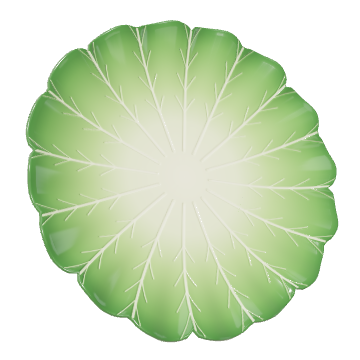
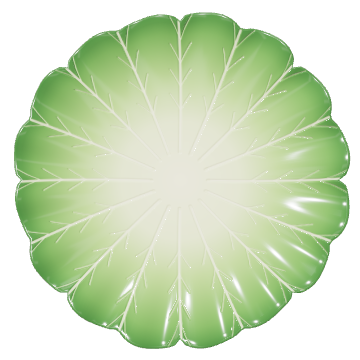
Awards: face-on plates, smooth landing, drag without paging, full-width page (#324)
* Awards round 2: plates rest face-on, no end-of-entrance snap, drag spins without paging, full-width page, card width, title lines [record-snapshots]

Eamon tested build 269:
- The entrance ended with the plate still leaning 6.5 degrees, then snapped flat and began an
  idle sway on its last frame. The lean now returns to nothing as it lands, and there is no sway:
  every plate rests fully face-on, live and in the stills (re-baked from the same engine).
- In the takeover a drag on the plate also turned the page: the swipe was on the whole screen.
  It now listens only under the plate.
- An opened award's page was only as wide as its title until its rows landed, so the screen's
  own white showed at both sides. It now fills the width at every phase.
- Its entry slips were inset by the page gutter; they now use the one card width.
- Award names wrapped with the face's own loose leading; they now use the exact 1.05 box.

Claude-Session: https://claude.ai/code/session_01UmVTMLpfHvzRrwD16tKZkG

* Snapshots: re-recorded pictures (26 files)

* Awards: spinning an opened award's plate never starts the back swipe

iOS 26 starts the back swipe from a sideways drag anywhere on a pushed page, and a spin is a
sideways drag (Eamon, build 269). A pan on the plate watches alongside the web view, cancels
nothing, and holds the navigation controller's back swipes until it fails.

Claude-Session: https://claude.ai/code/session_01UmVTMLpfHvzRrwD16tKZkG

---------

diff --git a/App/DesignSystem/Components/AtePlateView.swift b/App/DesignSystem/Components/AtePlateView.swift
@@ -105,6 +105,7 @@ struct AtePlateView: UIViewRepresentable {
         web.scrollView.bounces = false
         web.scrollView.contentInsetAdjustmentBehavior = .never
         web.accessibilityElementsHidden = true
+        web.addGestureRecognizer(context.coordinator.hold)
         stage.web = web
         if let url = AtePlateView.page {
             web.loadFileURL(url, allowingReadAccessTo: url)
@@ -123,15 +124,53 @@ struct AtePlateView: UIViewRepresentable {
     static let page = Bundle.main.url(forResource: "plate-world", withExtension: "html")
 
     @MainActor
-    final class Coordinator: NSObject, WKScriptMessageHandler {
+    final class Coordinator: NSObject, WKScriptMessageHandler, UIGestureRecognizerDelegate {
         let stage: AtePlateStage
+        /// **A drag on the plate spins it; it never takes the page back.** iOS 26 lets a sideways
+        /// drag anywhere on a pushed page start the back swipe, and a spin is a sideways drag
+        /// (Eamon, build 269). This pan watches every touch on the plate alongside the web view,
+        /// cancels nothing, and holds the navigation controller's back swipes until it fails —
+        /// which it never does once a drag on the plate has begun.
+        let hold = UIPanGestureRecognizer()
 
         init(stage: AtePlateStage) {
             self.stage = stage
+            super.init()
+            hold.cancelsTouchesInView = false
+            hold.delaysTouchesBegan = false
+            hold.delaysTouchesEnded = false
+            hold.delegate = self
         }
 
         func userContentController(_ controller: WKUserContentController, didReceive message: WKScriptMessage) {
             if message.body as? String == "ready" { stage.didLoad() }
+        }
+
+        func gestureRecognizer(
+            _ gestureRecognizer: UIGestureRecognizer,
+            shouldRecognizeSimultaneouslyWith other: UIGestureRecognizer
+        ) -> Bool {
+            true
+        }
+
+        func gestureRecognizer(
+            _ gestureRecognizer: UIGestureRecognizer,
+            shouldBeRequiredToFailBy other: UIGestureRecognizer
+        ) -> Bool {
+            guard let navigation = navigationController(of: gestureRecognizer.view) else { return false }
+            return other === navigation.interactiveContentPopGestureRecognizer
+                || other === navigation.interactivePopGestureRecognizer
+        }
+
+        private func navigationController(of view: UIView?) -> UINavigationController? {
+            var responder: UIResponder? = view
+            while let next = responder {
+                if let controller = next as? UIViewController, let navigation = controller.navigationController {
+                    return navigation
+                }
+                responder = next.next
+            }
+            return nil
         }
     }
 

diff --git a/App/V2/Awards/AwardTakeoverScreen.swift b/App/V2/Awards/AwardTakeoverScreen.swift
@@ -27,24 +27,29 @@ struct AwardTakeoverScreen: View {
                 AtePlateView(stage: stage)
                     .frame(width: geometry.size.width, height: geometry.size.width)
                     .padding(.top, AwardTakeoverMetrics.plateTop)
-                if let current {
-                    words(current)
-                        .padding(.horizontal, AwardTakeoverMetrics.wordsInset)
-                        .padding(.top, AwardTakeoverMetrics.plateToWords)
+                // Paging is heard only under the plate: a drag on the plate spins it, and never
+                // turns the page (Eamon, build 269).
+                VStack(spacing: 0) {
+                    if let current {
+                        words(current)
+                            .padding(.horizontal, AwardTakeoverMetrics.wordsInset)
+                            .padding(.top, AwardTakeoverMetrics.plateToWords)
+                    }
+                    Spacer(minLength: AteMetrics.section)
+                    if awards.count > 1 { dots }
+                    buttons
+                        .padding(.horizontal, AteMetrics.gutter)
+                        .ateContentBottom(AwardTakeoverMetrics.buttonsBottom)
                 }
-                Spacer(minLength: AteMetrics.section)
-                if awards.count > 1 { dots }
-                buttons
-                    .padding(.horizontal, AteMetrics.gutter)
-                    .ateContentBottom(AwardTakeoverMetrics.buttonsBottom)
+                .frame(maxWidth: .infinity, maxHeight: .infinity)
+                .contentShape(.rect)
+                .gesture(swipe)
             }
             .frame(maxWidth: .infinity, maxHeight: .infinity, alignment: .top)
         }
         .background { ground }
         .environment(\.atePalette, .ink)
         .preferredColorScheme(.dark)
-        .contentShape(.rect)
-        .gesture(swipe)
         .accessibilityIdentifier("v2.award.takeover")
         .sheet(item: $sharing) { image in
             ShareSheet(image: image.image)
@@ -74,7 +79,7 @@ struct AwardTakeoverScreen: View {
     private func words(_ award: EarnedAward) -> some View {
         VStack(spacing: 0) {
             Text(award.award.name)
-                .ateText(.awardTakeoverTitle)
+                .ateTextExactLifted(.awardTakeoverTitle)
                 .foregroundStyle(AteAwardColor.takeoverInk)
                 .multilineTextAlignment(.center)
                 .rise(isWordsUp, delay: AwardTakeoverMetrics.titleDelay, reduceMotion: reduceMotion)

diff --git a/App/Resources/Plates/plate-world.html b/App/Resources/Plates/plate-world.html
@@ -532,13 +532,13 @@ function flip(){if(intro){intro=null;pivot.position.set(0,0,0);key.position.x=-1
 function playIntro(){if(reduce){rot=target=0;return}intro={t0:performance.now()};target=0;vel=0;tilt=0}
 let last=performance.now();
 function tick(now){const dt=Math.min(50,now-last)/16.67;last=now;
-  if(intro){const t=Math.min(1,(now-intro.t0)/2200),e=1-Math.pow(1-t,4),u=1-e;const sw=Math.sin(e*Math.PI);if(curKind==='glass'){rot=-TAU*u;spinZ=0;tilt=.18*sw}else{rot=-.55*sw;spinZ=-TAU*u;tilt=.4*Math.sin(e*Math.PI*1.25)*(1-e*.6)}pivot.position.z=-1.6*u;pivot.position.y=-.22*u;canvas.style.opacity=Math.min(1,t*3);key.position.x=-1.6+5*u;if(t>=1){intro=null;pivot.position.set(0,0,0);rot=0;tilt=0;target=0;vel=0;key.position.x=-1.6;canvas.style.opacity=1}}
+  if(intro){const t=Math.min(1,(now-intro.t0)/2200),e=1-Math.pow(1-t,4),u=1-e;const sw=Math.sin(e*Math.PI);if(curKind==='glass'){rot=-TAU*u;spinZ=0;tilt=.18*sw}else{rot=-.55*sw;spinZ=-TAU*u;tilt=.4*Math.sin(e*Math.PI)*(1-e*.6)}pivot.position.z=-1.6*u;pivot.position.y=-.22*u;canvas.style.opacity=Math.min(1,t*3);key.position.x=-1.6+5*u;if(t>=1){intro=null;pivot.position.set(0,0,0);rot=0;tilt=0;target=0;vel=0;key.position.x=-1.6;canvas.style.opacity=1}}
   else if(!drag){vel=(vel+(target-rot)*.045*dt)*Math.pow(.88,dt);rot+=vel*dt;tilt+=(0-tilt)*.06*dt;idle+=.012*dt}
-  pivot.rotation.y=rot;pivot.rotation.x=tilt+(drag||intro?0:Math.sin(idle)*.07);pivot.rotation.y+=(drag||intro?0:Math.sin(idle*.8+1)*.09);pivot.rotation.z=intro?spinZ:(drag?0:Math.sin(idle*.7)*.03);
+  pivot.rotation.y=rot;pivot.rotation.x=tilt;pivot.rotation.z=intro?spinZ:0;
   renderer.render(scene,camera);requestAnimationFrame(tick)}
 
 /* ---------- the app's handle on the plate ---------- */
-function shoot(a,off){pivot.position.set(0,0,0);pivot.rotation.set(a.kind==='glass'?.22:-.32,.38,0);build(a,off);renderer.render(scene,camera);return renderer.domElement.toDataURL('image/png')}
+function shoot(a,off){pivot.position.set(0,0,0);pivot.rotation.set(a.kind==='glass'?.12:0,0,0);build(a,off);renderer.render(scene,camera);return renderer.domElement.toDataURL('image/png')}
 const post=(m)=>{try{webkit.messageHandlers.plate.postMessage(m)}catch(e){}};
 let running=false;
 function ready(){

diff --git a/App/V2/Awards/V2AwardPage.swift b/App/V2/Awards/V2AwardPage.swift
@@ -38,9 +38,10 @@ struct V2AwardPage: View {
                     .frame(width: AteAwardsMetrics.detailPlate, height: AteAwardsMetrics.detailPlate)
                     .padding(.top, AteMetrics.loose)
                 Text(route.award.name)
-                    .ateText(.awardTitle)
+                    .ateTextExactLifted(.awardTitle)
                     .foregroundStyle(AtePalette.automatic.fg)
                     .multilineTextAlignment(.center)
+                    .padding(.horizontal, AteMetrics.gutter)
                     .padding(.top, AteMetrics.tight)
                 if let award {
                     Text(AtePlateSpec.backstampDate(award.earnedAt))
@@ -51,8 +52,10 @@ struct V2AwardPage: View {
                         .transition(.opacity)
                 }
             }
+            // Full width at every phase: before its rows land the page is only as wide as its
+            // title, and the screen's own white showed at both sides (Eamon, build 269).
+            .frame(maxWidth: .infinity)
             .ateAnimation(AteMotion.fillIn, value: award == nil)
-            .padding(.horizontal, AteMetrics.gutter)
             .padding(.bottom, AteMetrics.section)
         }
         .ateRefreshable { await store.refresh() }
@@ -85,8 +88,10 @@ struct V2AwardPage: View {
         switch route.award.opening {
         case .mosaic(let count):
             mosaic(award, count: count)
+                .padding(.horizontal, AteMetrics.gutter)
         case .dishes:
             dishRows
+                .padding(.horizontal, AteMetrics.gutter)
                 .padding(.top, AteMetrics.section)
         case .entries:
             slips
@@ -182,6 +187,7 @@ struct V2AwardPage: View {
                     onDish: { context.open(.dish($0.dishID), from: .award) },
                     identifier: "award.slip"
                 )
+                .ateCardWidth() // the one card width, as on the Journal and a profile
             }
         }
     }

diff --git a/design/plates/build.py b/design/plates/build.py
@@ -8,6 +8,8 @@ the app without touching how a plate looks or moves:
   * the ids become the server's award ids (0098),
   * the backstamp and the glass engraving use the app's DM Sans and carry the viewer's handle,
   * the mockup page's grid, table and buttons go; `window.ate` is the app's handle on it,
+  * every plate rests fully face-on, live and in the stills (Eamon, build 269): the entrance's lean
+    ends at zero instead of snapping there on its last frame, and there is no idle sway after it,
 and writes one self-contained page (three.js, the fonts and the wordmark inlined) to
 App/Resources/Plates/plate-world.html, which `AtePlateView` loads into a WKWebView.
 `bake.js` renders the stills the rows and grids use from the same page.
@@ -72,12 +74,18 @@ def engine():
                 APP_TAIL, js, count=1, flags=re.S)
     js = re.sub(r"function setTheme\(t\)\{.*?\nfunction start\(\)\{[^\n]*\n",
                 "function start(){resize();addEventListener('resize',resize);ready()}\n", js, count=1, flags=re.S)
+    # rest face-on: the lean comes back to nothing as the entrance lands, and nothing sways after
+    js = sub(js, "tilt=.4*Math.sin(e*Math.PI*1.25)*(1-e*.6)", "tilt=.4*Math.sin(e*Math.PI)*(1-e*.6)")
+    js = sub(js, "pivot.rotation.x=tilt+(drag||intro?0:Math.sin(idle)*.07);"
+                 "pivot.rotation.y+=(drag||intro?0:Math.sin(idle*.8+1)*.09);"
+                 "pivot.rotation.z=intro?spinZ:(drag?0:Math.sin(idle*.7)*.03);",
+             "pivot.rotation.x=tilt;pivot.rotation.z=intro?spinZ:0;")
     js = sub(js, "'600 30px \"DM Sans\"'", "'600 30px \"DM Sans\"','500 30px \"DM Sans\"'")
     return js
 
 
 APP_TAIL = r"""/* ---------- the app's handle on the plate ---------- */
-function shoot(a,off){pivot.position.set(0,0,0);pivot.rotation.set(a.kind==='glass'?.22:-.32,.38,0);build(a,off);renderer.render(scene,camera);return renderer.domElement.toDataURL('image/png')}
+function shoot(a,off){pivot.position.set(0,0,0);pivot.rotation.set(a.kind==='glass'?.12:0,0,0);build(a,off);renderer.render(scene,camera);return renderer.domElement.toDataURL('image/png')}
 const post=(m)=>{try{webkit.messageHandlers.plate.postMessage(m)}catch(e){}};
 let running=false;
 function ready(){
